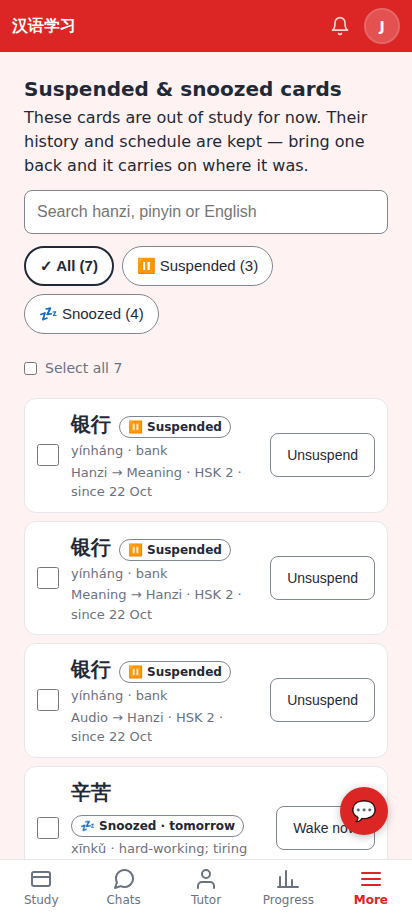
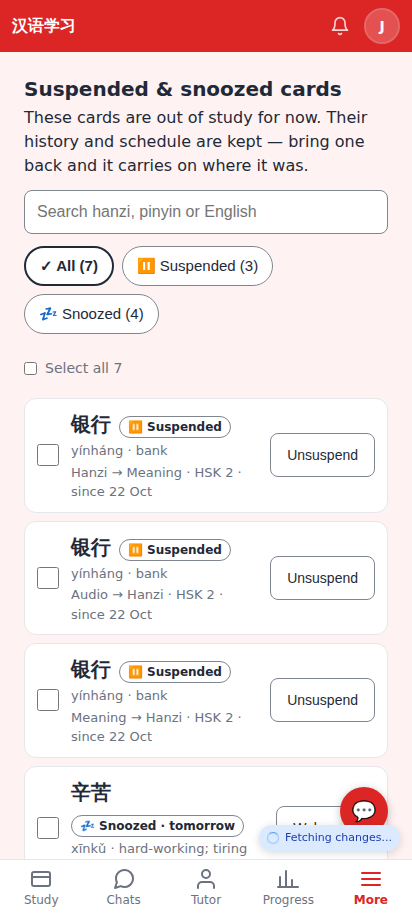
WIP: layouts, hub order, compare test, screenshots

Changed region(s): [[0.6117, 0.8874, 0.9903, 0.9486], [0.1748, 0.765, 0.5534, 0.7956], [0.1748, 0.6426, 0.5534, 0.6732]]

diff --git a/frontend/src/components/cardControls/HubCardControls.tsx b/frontend/src/components/cardControls/HubCardControls.tsx
@@ -10,6 +10,8 @@ import './cardControls.css';
  * 💤 Snoozed · 29 Oct and Unsuspend / Wake now — or 💤 Snooze… / ⏸ Suspend… (the same sheet as the
  * study card's ⋯ menu, docs/STUDY_SESSION.md "Suspend & snooze").
  */
+const TYPES = ['hanzi_to_meaning', 'meaning_to_hanzi', 'audio_to_hanzi'];
+
 export function HubCardControls({ cards, hanzi }: { cards: CardControlTarget[]; hanzi: string }) {
   const holds = useCardHolds();
   const [sheet, setSheet] = useState<{ mode: CardControlMode; card: CardControlTarget } | null>(null);
@@ -17,35 +19,38 @@ export function HubCardControls({ cards, hanzi }: { cards: CardControlTarget[]; 
   const today = localDateKey();
   return (
     <div className="cc-hub" data-testid="hub-card-controls">
-      {cards.map((c) => {
+      {[...cards].sort((a, b) => TYPES.indexOf(a.card_type) - TYPES.indexOf(b.card_type)).map((c) => {
         const hold = holds.get(c.id);
         const tag = hold ? holdTag(hold, today) : null;
         return (
-          <div key={c.id} className="cc-hub-hold" data-testid={`hub-hold-${c.card_type}`}>
-            <span style={{ minWidth: '9.5rem' }}>{cardTypeLabel(c.card_type)}</span>
-            {hold && tag ? (
-              <>
+          <div key={c.id} className="cc-hub-card" data-testid={`hub-hold-${c.card_type}`}>
+            <div className="cc-hub-hold">
+              <strong>{cardTypeLabel(c.card_type)}</strong>
+              {hold && tag && (
                 <span className="cc-tag" title={holdStatusLabel(hold, today)}><span aria-hidden="true">{tag.icon}</span> {tag.text}</span>
+              )}
+            </div>
+            <div className="cc-hub-actions">
+              {hold ? (
                 <button
                   type="button"
                   className="btn btn-secondary btn-sm"
-                  style={{ minHeight: 44 }}
                   onClick={async () => showToast((await releaseCards([c.id], 'card_hub')).message)}
                   data-testid="hub-release"
                 >
                   {hold.kind === 'snooze' ? 'Wake now' : 'Unsuspend'}
                 </button>
-              </>
-            ) : (
-              <>
-                <button type="button" className="btn btn-secondary btn-sm" style={{ minHeight: 44 }} onClick={() => setSheet({ mode: 'snooze', card: c })} data-testid="hub-snooze">
-                  💤 Snooze…
-                </button>
-                <button type="button" className="btn btn-secondary btn-sm" style={{ minHeight: 44 }} onClick={() => setSheet({ mode: 'suspend', card: c })} data-testid="hub-suspend">
-                  ⏸ Suspend…
-                </button>
-              </>
-            )}
+              ) : (
+                <>
+                  <button type="button" className="btn btn-secondary btn-sm" onClick={() => setSheet({ mode: 'snooze', card: c })} data-testid="hub-snooze">
+                    💤 Snooze…
+                  </button>
+                  <button type="button" className="btn btn-secondary btn-sm" onClick={() => setSheet({ mode: 'suspend', card: c })} data-testid="hub-suspend">
+                    ⏸ Suspend…
+                  </button>
+                </>
+              )}
+            </div>
           </div>
         );
       })}

diff --git a/android-lab/app/src/main/java/dev/jeromeswannack/chineselearning/lab/ui/cardcontrols/CardControlsSettings.kt b/android-lab/app/src/main/java/dev/jeromeswannack/chineselearning/lab/ui/cardcontrols/CardControlsSettings.kt
@@ -15,7 +15,18 @@ import dev.jeromeswannack.chineselearning.lab.ui.kit.LabCard
 import dev.jeromeswannack.chineselearning.lab.ui.kit.NavRow
 import dev.jeromeswannack.chineselearning.lab.ui.kit.RowDivider
 import dev.jeromeswannack.chineselearning.lab.ui.nav.Routes
-import dev.jeromeswannack.chineselearning.lab.ui.kit.ToggleRow
+import dev.jeromeswannack.chineselearning.lab.ui.kit.bouncyClickable
+import dev.jeromeswannack.chineselearning.lab.ui.theme.Lab
+import androidx.compose.foundation.layout.fillMaxWidth
+import androidx.compose.foundation.layout.padding
+import androidx.compose.foundation.layout.width
+import androidx.compose.material3.MaterialTheme
+import androidx.compose.material3.Switch
+import androidx.compose.material3.SwitchDefaults
+import androidx.compose.material3.Text
+import androidx.compose.ui.platform.testTag
+import androidx.compose.ui.unit.dp
+import androidx.compose.ui.unit.sp
 import kotlinx.coroutines.Dispatchers
 import kotlinx.coroutines.launch
 import kotlinx.coroutines.withContext
@@ -43,12 +54,23 @@ fun CardControlsSettingsCard(app: LabApp, open: (String) -> Unit) {
 @Composable
 fun CardControlsSettingsView(on: Boolean, suspended: Int, snoozed: Int, onToggle: (Boolean) -> Unit, onOpen: () -> Unit) {
     LabCard {
-        ToggleRow(
-            "🃏", "Don't show a word's other card types on the same day", on,
-            desc = if (on) "Once you review one card of a word, its other new and review cards wait until tomorrow. Cards you're still learning, and words you bumped to today (⚡), still come."
-            else "Off — a word can come up as several card types on the same day.",
-            onChange = onToggle,
-        )
+        // The whole sentence is the setting (it wraps; ToggleRow would cut it to one line).
+        androidx.compose.foundation.layout.Row(
+            androidx.compose.ui.Modifier.fillMaxWidth().bouncyClickable { onToggle(!on) }.padding(horizontal = 16.dp, vertical = 12.dp)
+                .testTag("bury-siblings-toggle"),
+            verticalAlignment = androidx.compose.ui.Alignment.CenterVertically,
+        ) {
+            Text("🃏", fontSize = 22.sp, modifier = androidx.compose.ui.Modifier.width(44.dp))
+            androidx.compose.foundation.layout.Column(androidx.compose.ui.Modifier.weight(1f)) {
+                Text("Don't show a word's other card types on the same day", style = MaterialTheme.typography.titleMedium, color = Lab.colors.ink)
+                Text(
+                    if (on) "Once you review one card of a word, its other new and review cards wait until tomorrow. Cards you're still learning, and words you bumped to today (⚡), still come."
+                    else "Off — a word can come up as several card types on the same day.",
+                    style = MaterialTheme.typography.bodySmall, color = Lab.colors.muted,
+                )
+            }
+            Switch(checked = on, onCheckedChange = onToggle, colors = SwitchDefaults.colors(checkedTrackColor = Lab.colors.accent))
+        }
         RowDivider()
         NavRow(
             "⏸", "Suspended & snoozed cards",

diff --git a/android-lab/app/src/main/java/dev/jeromeswannack/chineselearning/lab/ui/cardcontrols/HubCardControls.kt b/android-lab/app/src/main/java/dev/jeromeswannack/chineselearning/lab/ui/cardcontrols/HubCardControls.kt
@@ -74,16 +74,23 @@ fun HubCardControls(app: LabApp, noteId: String, hanzi: String) {
 fun HubCardControlsView(rows: List<HubHoldRow>, today: String, toast: String?, onRelease: (HubHoldRow) -> Unit, onHold: (kind: String, HubHoldRow) -> Unit) {
     Column(Modifier.fillMaxWidth().testTag("hub-card-controls"), verticalArrangement = Arrangement.spacedBy(8.dp)) {
         for (r in rows) {
-            Row(Modifier.fillMaxWidth(), verticalAlignment = Alignment.CenterVertically, horizontalArrangement = Arrangement.spacedBy(8.dp)) {
-                Text(cardTypeLabel(r.cardType), color = Lab.colors.ink, modifier = Modifier.width(132.dp))
+            // One card type per block: its name + hold on one line, the actions under it (412dp wide).
+            Column(Modifier.fillMaxWidth(), verticalArrangement = Arrangement.spacedBy(6.dp)) {
                 val hold = r.hold
-                if (hold != null) {
-                    val (icon, text) = CardHolds.tag(hold.kind, hold.until, today)
-                    HoldTag(icon, text, Modifier.weight(1f, fill = false))
-                    SecondaryPill(if (hold.kind == CardHolds.SNOOZE) "Wake now" else "Unsuspend", onClick = { onRelease(r) }, modifier = Modifier.testTag("hub-release"))
-                } else {
-                    SecondaryPill("💤 Snooze…", onClick = { onHold(CardHolds.SNOOZE, r) }, modifier = Modifier.testTag("hub-snooze"))
-                    SecondaryPill("⏸ Suspend…", onClick = { onHold(CardHolds.SUSPEND, r) }, modifier = Modifier.testTag("hub-suspend"))
+                Row(verticalAlignment = Alignment.CenterVertically, horizontalArrangement = Arrangement.spacedBy(8.dp)) {
+                    Text(cardTypeLabel(r.cardType), color = Lab.colors.ink, fontWeight = androidx.compose.ui.text.font.FontWeight.SemiBold)
+                    if (hold != null) {
+                        val (icon, text) = CardHolds.tag(hold.kind, hold.until, today)
+                        HoldTag(icon, text)
+                    }
+                }
+                Row(horizontalArrangement = Arrangement.spacedBy(8.dp)) {
+                    if (hold != null) {
+                        SecondaryPill(if (hold.kind == CardHolds.SNOOZE) "Wake now" else "Unsuspend", onClick = { onRelease(r) }, modifier = Modifier.testTag("hub-release"))
+                    } else {
+                        SecondaryPill("💤 Snooze…", onClick = { onHold(CardHolds.SNOOZE, r) }, modifier = Modifier.testTag("hub-snooze"))
+                        SecondaryPill("⏸ Suspend…", onClick = { onHold(CardHolds.SUSPEND, r) }, modifier = Modifier.testTag("hub-suspend"))
+                    }
                 }
             }
         }

diff --git a/android-lab/app/src/main/java/dev/jeromeswannack/chineselearning/lab/ui/cardcontrols/HeldCardsScreen.kt b/android-lab/app/src/main/java/dev/jeromeswannack/chineselearning/lab/ui/cardcontrols/HeldCardsScreen.kt
@@ -10,6 +10,7 @@ import androidx.compose.foundation.layout.Spacer
 import androidx.compose.foundation.layout.fillMaxSize
 import androidx.compose.foundation.layout.fillMaxWidth
 import androidx.compose.foundation.layout.heightIn
+import androidx.compose.foundation.horizontalScroll
 import androidx.compose.foundation.layout.padding
 import androidx.compose.foundation.layout.width
 import androidx.compose.foundation.lazy.items
@@ -179,14 +180,14 @@ fun HeldCardsScreen(ui: HeldCardsUi, actions: HeldCardsActions) {
                 )
             }
             item {
-                Row(horizontalArrangement = Arrangement.spacedBy(8.dp)) {
+                Row(Modifier.horizontalScroll(androidx.compose.foundation.rememberScrollState()), horizontalArrangement = Arrangement.spacedBy(8.dp)) {
                     for ((id, label) in FILTERS) {
                         val on = ui.filter == id
                         val shape = RoundedCornerShape(50)
                         Text(
                             (if (on) "✓ " else "") + "$label (${ui.count(id)})",
                             fontWeight = if (on) FontWeight.Bold else FontWeight.Normal,
-                            color = Lab.colors.ink,
+                            color = Lab.colors.ink, maxLines = 1, softWrap = false,
                             modifier = Modifier.clip(shape).border(if (on) 2.dp else 1.dp, if (on) Lab.colors.ink else Lab.colors.outline, shape)
                                 .bouncyClickable { actions.onFilter(id) }.heightIn(min = 40.dp).padding(horizontal = 14.dp, vertical = 9.dp)
                                 .testTag("held-filter-$id"),

diff --git a/shared/debug/compare.test.ts b/shared/debug/compare.test.ts
@@ -229,4 +229,19 @@ describe('compareDebugReports', () => {
     expect(old.context.review_load.a).toBe('?');
     expect('review_load' in old.headline).toBe(false);
   });
+
+  it('diffs Suspend & snooze holds and the sibling switch', () => {
+    const lab = report('lab', { holds: [['c1', 'suspend', null], ['c2', 'snooze', '2026-09-29']], bury_siblings: true });
+    const web = report('web', { holds: [['c1', 'suspend', null]], bury_siblings: false });
+    const cmp = compareDebugReports(lab, web);
+    expect(cmp.context.holds.a).toMatch(/^2:/);
+    expect(cmp.context.holds.b).toMatch(/^1:/);
+    const hints = cmp.hints.join('\n');
+    expect(hints).toContain('Suspended / snoozed cards differ');
+    expect(hints).toContain('(1 only on LAB, 0 only on WEB)');
+    expect(hints).toContain("is on on LAB but off on WEB");
+    const same = compareDebugReports(lab, report('web', { holds: [['c2', 'snooze', '2026-09-29'], ['c1', 'suspend', null]], bury_siblings: true }));
+    expect(same.context.holds.a).toBe(same.context.holds.b);
+    expect(compareDebugReports(report('lab'), web).context.holds.a).toBe('?');
+  });
 });

diff --git a/frontend/src/components/cardControls/cardControls.css b/frontend/src/components/cardControls/cardControls.css
@@ -292,11 +292,18 @@
   margin-top: 0.375rem;
 }
 
+.cc-hub {
+  display: flex;
+  flex-direction: column;
+  gap: 0.875rem;
+  margin-top: 0.75rem;
+}
+
 .cc-hub-actions {
   display: flex;
   flex-wrap: wrap;
   gap: 0.5rem;
-  margin-top: 0.5rem;
+  margin-top: 0.375rem;
 }
 
 .cc-hub-actions .btn {

diff --git a/docs/pr-screenshots/anki-card-controls/README.md b/docs/pr-screenshots/anki-card-controls/README.md
@@ -1,0 +1,50 @@
+# Suspend & snooze — screenshots (412×915)
+
+The web app is light-only; the Lab app is shown light and dark.
+
+## Web
+
+![⋯ menu on the answer side: Snooze… (Not today) and Suspend…](web-07-more-menu.png)
+⋯ on the answer side: **💤 Snooze… · Not today** and **⏸ Suspend…**.
+
+![Snooze sheet: this card / all card types, Until tomorrow · For a week · For a month](web-08-snooze-sheet.png)
+Snooze sheet — "All card types of this word" chosen; each length says when the card is back.
+
+![Toast after snoozing](web-09-snoozed-toast.png)
+After "For a week": the card leaves the session, "3 cards snoozed for a week."
+
+![Suspend sheet](web-01-suspend-sheet.png)
+Suspend sheet — what suspending means, This card only / All card types, ⏸ Suspend card.
+
+![Suspended & snoozed cards](web-03-held-list-full.png)
+Settings / More → **Suspended & snoozed cards**: search, All / Suspended / Snoozed, per-row Unsuspend / Wake now.
+
+![After unsuspending](web-02-held-list.png)
+The list with one suspended card (e2e run).
+
+![Deck page row tags](web-04-deck-rows.png)
+Deck page rows: "⏸ Suspended" / "💤 Snoozed · 21 Nov" tags (icon + words).
+
+![Card hub controls](web-05-card-hub.png)
+Card hub: each card type with its hold and Wake now / Unsuspend, or Snooze… / Suspend….
+
+![Settings: the sibling switch and the list link](web-06-settings.png)
+Settings → Study: "Don't show a word's other card types on the same day" (off by default) and the list.
+
+## Lab app
+
+![Held list](lab-01-held-list.png)
+![Held list, dark, two ticked](lab-02-held-list-dark.png)
+Suspended & snoozed cards — light, and dark with two ticked (Wake now (2)).
+
+![Snooze sheet](lab-05-snooze-sheet.png)
+![Snooze sheet dark](lab-06-snooze-sheet-dark.png)
+Snooze sheet, light and dark.
+
+![Suspend sheet](lab-07-suspend-sheet.png)
+![Suspend sheet dark](lab-08-suspend-sheet-dark.png)
+Suspend sheet, light and dark.
+
+![Settings card and hub controls](lab-09-settings-hub.png)
+![Settings card and hub controls dark](lab-10-settings-hub-dark.png)
+Settings card (switch on / off) and the card hub's per-card controls.
